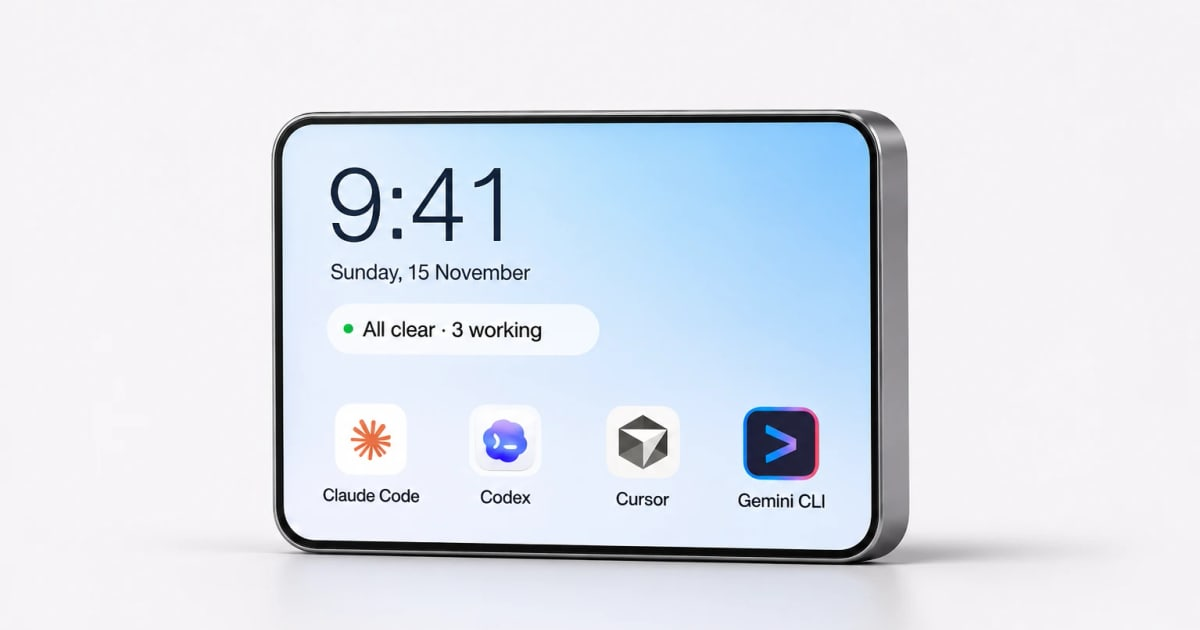
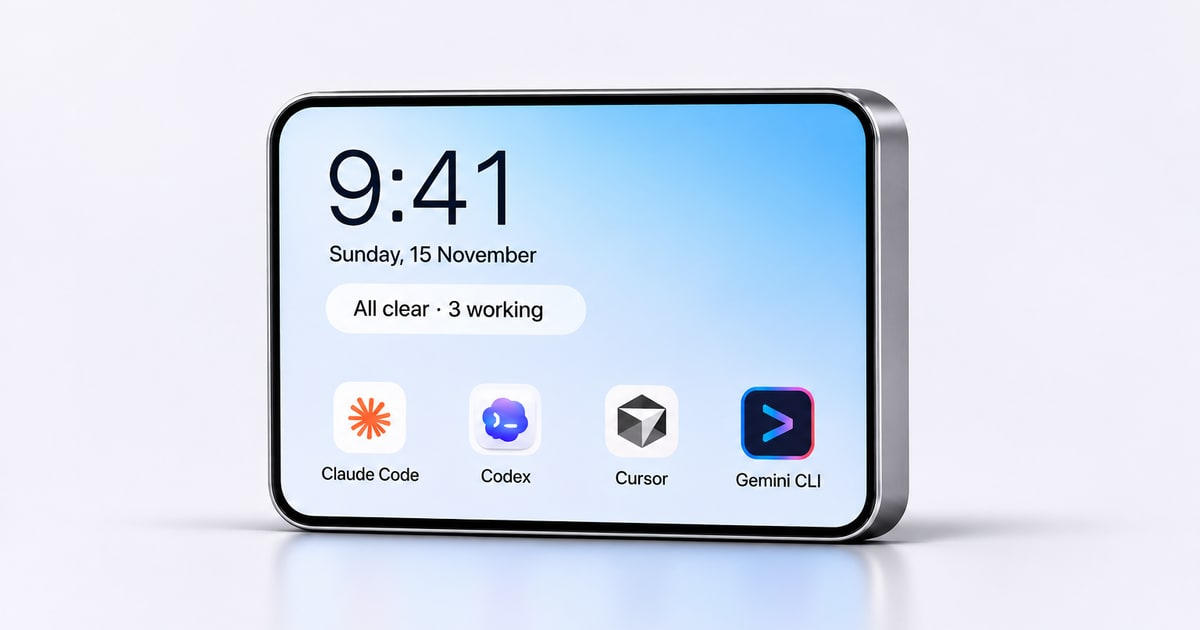
Sharper bottom photo: original PNG, capped width, matched band colour

Changed region(s): [[0.185, 0.1206, 0.8633, 0.9952], [0.2775, 0.2413, 0.5242, 0.573]]

diff --git a/app/globals.css b/app/globals.css
@@ -3,7 +3,7 @@
   --grey: #6e6e73;
   --line: rgba(0, 0, 0, 0.08);
   --tile: #f5f5f7;
-  --photo: #f6f3f7;
+  --photo: #f4f3fb;
   --font: 'Google Sans Flex Variable', 'Google Sans Flex', -apple-system, BlinkMacSystemFont, 'Helvetica Neue', Arial, sans-serif;
   --ease: cubic-bezier(.2, .7, .2, 1);
 }
@@ -115,9 +115,12 @@ a { color: inherit; text-decoration: none; }
 .photo-band { margin: 0 -24px; background: linear-gradient(to bottom, #fff, var(--photo) clamp(120px, 14vw, 220px)); }
 .photo-band-copy { position: relative; z-index: 1; padding: clamp(120px, 14vw, 200px) 24px 0; text-align: center; }
 .photo-band-img {
-  width: 100%; max-width: 1600px; height: auto; margin: clamp(-210px, -11vw, -32px) auto 0;
-  -webkit-mask-image: linear-gradient(to bottom, transparent, #000 22%, #000 84%, transparent);
-  mask-image: linear-gradient(to bottom, transparent, #000 22%, #000 84%, transparent);
+  --gap: clamp(40px, 5.3vw, 76px);
+  width: 100%; max-width: 1100px; height: auto; margin: calc(var(--gap) - 0.145 * min(100vw, 1100px)) auto 0;
+  -webkit-mask-image: linear-gradient(to bottom, transparent, #000 20%, #000 84%, transparent), linear-gradient(to right, transparent, #000 12%, #000 88%, transparent);
+  -webkit-mask-composite: source-in;
+  mask-image: linear-gradient(to bottom, transparent, #000 20%, #000 84%, transparent), linear-gradient(to right, transparent, #000 12%, #000 88%, transparent);
+  mask-composite: intersect;
 }
 
 .story-ch { padding: clamp(120px, 15vw, 220px) 24px 0; text-align: center; }
@@ -126,7 +129,7 @@ a { color: inherit; text-decoration: none; }
 .story-line + .story-line { margin-top: 0.32em; }
 .story-end { padding: 0 24px; }
 .story-end .photo-band-copy { padding-top: clamp(120px, 15vw, 220px); }
-.story-end .photo-band-img { margin-top: clamp(-170px, -10vw, -24px); }
+.story-end .photo-band-img { --gap: clamp(48px, 6.3vw, 90px); }
 
 .foot { padding: 32px 24px 56px; background: var(--photo); }
 .foot-links { display: flex; flex-wrap: wrap; gap: 24px; margin-bottom: 20px; font-size: 14px; }
@@ -187,7 +190,6 @@ a { color: inherit; text-decoration: none; }
   .pair { grid-template-columns: 1fr; }
   .pair img { height: auto; }
   .btn-nav { font-size: 14px; padding: 10px 18px; }
-  .photo-band-img, .story-end .photo-band-img { margin-top: -6vw; }
 }
 @media (prefers-reduced-motion: reduce) {
   html { scroll-behavior: auto; }

diff --git a/components/PhotoBand.js b/components/PhotoBand.js
@@ -2,7 +2,7 @@ export default function PhotoBand({ id, children }) {
   return (
     <div id={id} className="photo-band">
       <div className="photo-band-copy">{children}</div>
-      <img className="photo-band-img" src="/img/hero.webp" width={1535} height={1024} loading="lazy" alt="abble 1 on a white surface, showing the time and four coding agents" />
+      <img className="photo-band-img" src="/img/hero.webp" width={1536} height={1024} loading="lazy" alt="abble 1 on a white surface, showing the time and four coding agents" />
     </div>
   );
 }

diff --git a/components/Device3D.js b/components/Device3D.js
@@ -266,7 +266,7 @@ export default function Device3D({ drive, className = '' }) {
 
   return (
     <div ref={stageRef} className={`stage ${className}${ready ? ' ready' : ''}${fallback ? ' fallback' : ''}`}>
-      <img className="poster" src="/img/hero.webp" width={1535} height={1024} alt="abble 1, a small space gray device showing the time and four coding agents" />
+      <img className="poster" src="/img/hero.webp" width={1536} height={1024} alt="abble 1, a small space gray device showing the time and four coding agents" />
     </div>
   );
 }
